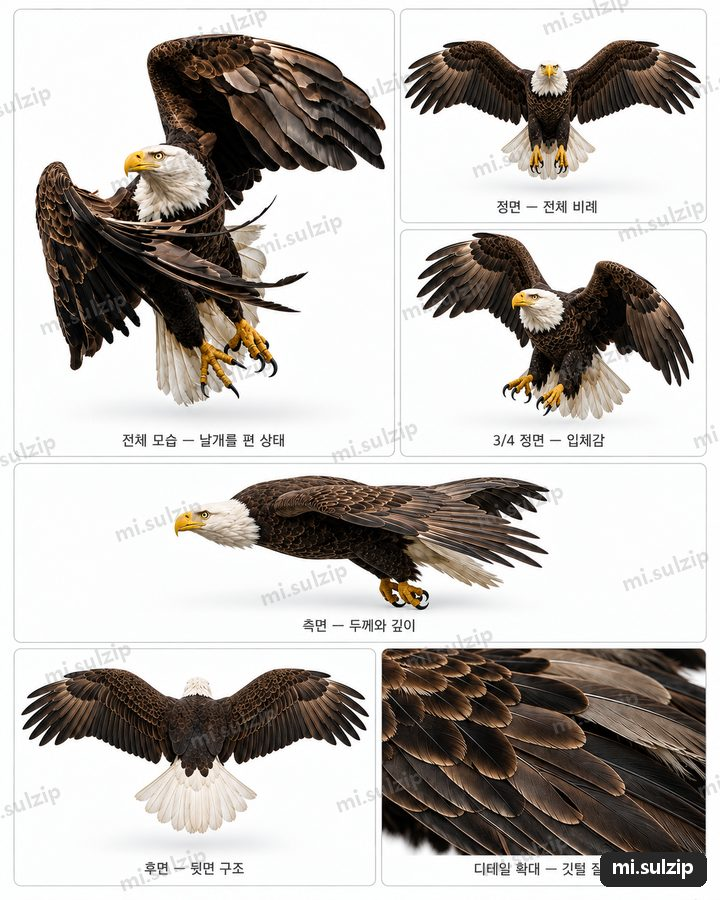
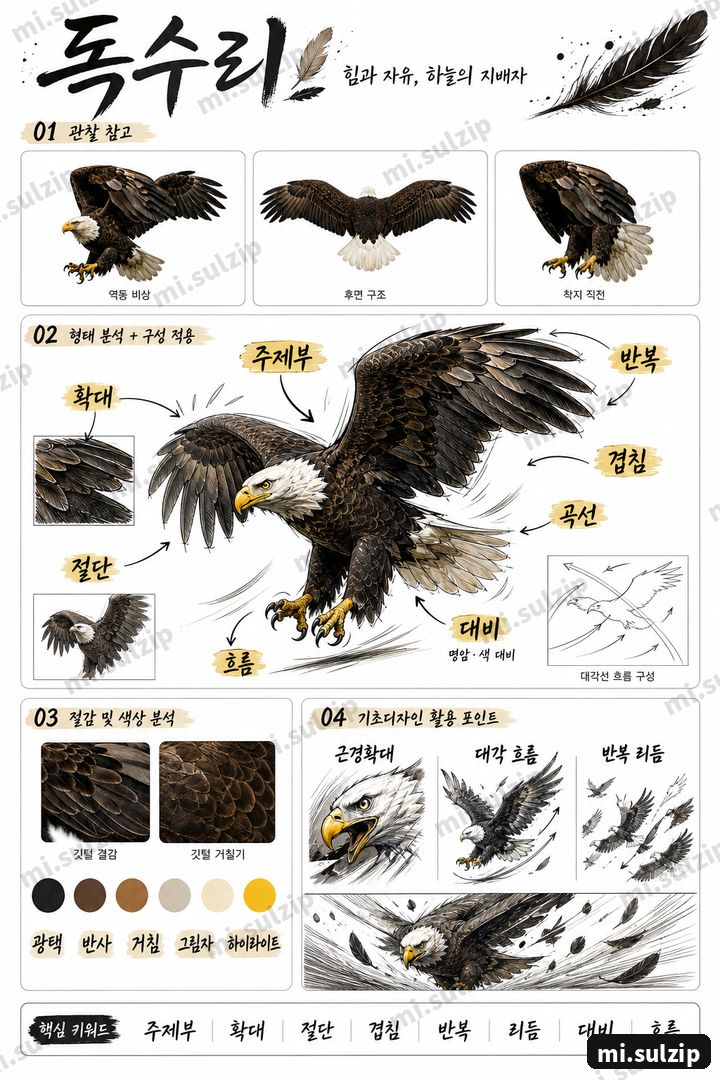
돼지·독수리·산양 분석보드 추가 (워터마크, 미리보기 첫 장)
Claude-Session: https://claude.ai/code/session_017wKCULFebdPRoDLWvjCuZn

diff --git a/index.html b/index.html
@@ -360,9 +360,9 @@ const ITEMS=[
  {"id": "mistsprayer", "title": "미스트 분무기 레퍼런스", "cat": "생활용품", "tier": "MINI", "price": 4900, "badge": "new", "order": 145, "pop": 145, "img": "img/mistsprayer/board.jpg", "thumb": "img/mistsprayer/thumb.jpg", "cuts": 6, "pv": ["img/mistsprayer/cut01.jpg", "img/mistsprayer/cut02.jpg", "img/mistsprayer/cut03.jpg", "img/mistsprayer/cut04.jpg", "img/mistsprayer/cut05.jpg", "img/mistsprayer/cut06.jpg", "img/mistsprayer/set1.jpg"], "desc": "투명한 유리와 금속의 대비", "contents": ["분석보드: 관찰 참고 · 형태 분석과 구성 · 질감과 색상 · 기초디자인 활용 포인트", "각도별 단독컷 6장 + 모음컷: 정면 · 측면 · 후면 · 상단 · 디테일", "핵심 키워드: 주제부 · 확대 · 절단 · 반복 · 리듬 · 대비 · 흐름"], "who": ["사물의 구조와 질감을 각도별로 익히고 싶은 입시생", "기초디자인 주제부 소재를 찾는 분"], "tags": ["생활용품", "분무기", "유리", "금속", "청록", "곡선"]},
  {"id": "octopus", "title": "문어 레퍼런스", "cat": "동물", "tier": "MINI", "price": 4900, "badge": "new", "order": 146, "pop": 146, "img": "img/octopus/board.jpg", "thumb": "img/octopus/thumb.jpg", "cuts": 5, "pv": ["img/octopus/cut01.jpg", "img/octopus/cut02.jpg", "img/octopus/cut03.jpg", "img/octopus/cut04.jpg", "img/octopus/cut05.jpg", "img/octopus/set1.jpg"], "desc": "유연한 움직임, 감각과 촉감의 조화", "contents": ["분석보드: 관찰 참고 · 형태 분석과 구성 · 질감과 색상 · 기초디자인 활용 포인트", "각도별 단독컷 5장 + 모음컷: 정면 · 측면 · 후면 · 상단 · 디테일", "핵심 키워드: 주제부 · 확대 · 절단 · 반복 · 리듬 · 대비 · 흐름"], "who": ["동물 형태와 동세를 각도별로 보고 싶은 분", "질감 표현 연습이 필요한 입시생"], "tags": ["동물", "문어", "빨판", "다리", "곡선", "빨강"]},
  {"id": "candleholder", "title": "흐름 캔들홀더 레퍼런스", "cat": "재질·표현", "tier": "MINI", "price": 4900, "badge": "new", "order": 147, "pop": 147, "img": "img/candleholder/board.jpg", "thumb": "img/candleholder/thumb.jpg", "cuts": 6, "pv": ["img/candleholder/cut01.jpg", "img/candleholder/cut02.jpg", "img/candleholder/cut03.jpg", "img/candleholder/cut04.jpg", "img/candleholder/cut05.jpg", "img/candleholder/cut06.jpg", "img/candleholder/set1.jpg"], "desc": "흘러내리는 금속의 흐름과 반사", "contents": ["분석보드: 관찰 참고 · 형태 분석과 구성 · 질감과 색상 · 기초디자인 활용 포인트", "각도별 단독컷 6장 + 모음컷: 정면 · 측면 · 후면 · 상단 · 디테일", "핵심 키워드: 주제부 · 확대 · 절단 · 반복 · 리듬 · 대비 · 흐름"], "who": ["금속·유리·투명 같은 재질 표현을 연습하고 싶은 입시생", "반사와 하이라이트 위치를 익히고 싶은 분"], "tags": ["재질·표현", "캔들", "크롬", "금속", "흐름", "녹아내림"]},
- {"id": "ram", "title": "산양 레퍼런스", "cat": "동물", "tier": "MINI", "price": 4900, "badge": "new", "order": 149, "pop": 149, "img": "img/ram/board.jpg", "thumb": "img/ram/thumb.jpg", "cuts": 6, "pv": ["img/ram/cut01.jpg", "img/ram/cut02.jpg", "img/ram/cut03.jpg", "img/ram/cut04.jpg", "img/ram/cut05.jpg", "img/ram/cut06.jpg", "img/ram/set1.jpg"], "desc": "말린 뿔의 나선, 털의 무게감", "contents": ["분석보드 준비 중 (모음컷 대표 이미지)", "각도별 단독컷 6장 + 모음컷: 메인 · 정면 · 측면 · 후면 · 상단 · 디테일", "핵심 키워드: 주제부 · 확대 · 절단 · 반복 · 리듬 · 대비 · 흐름"], "who": ["동물 형태와 동세를 각도별로 보고 싶은 분", "털·뿔 질감 표현을 연습하고 싶은 입시생"], "tags": ["동물", "산양", "뿔", "나선", "털", "질감"]},
- {"id": "eagle", "title": "독수리 레퍼런스", "cat": "동물", "tier": "MINI", "price": 4900, "badge": "new", "order": 150, "pop": 150, "img": "img/eagle/board.jpg", "thumb": "img/eagle/thumb.jpg", "cuts": 6, "pv": ["img/eagle/cut01.jpg", "img/eagle/cut02.jpg", "img/eagle/cut03.jpg", "img/eagle/cut04.jpg", "img/eagle/cut05.jpg", "img/eagle/cut06.jpg", "img/eagle/set1.jpg"], "desc": "펼친 날개의 리듬, 깃털과 발톱의 긴장감", "contents": ["분석보드 준비 중 (모음컷 대표 이미지)", "각도별 단독컷 6장 + 모음컷: 메인 · 정면 · 측면 · 후면 · 상단 · 디테일", "핵심 키워드: 주제부 · 확대 · 절단 · 반복 · 리듬 · 대비 · 흐름"], "who": ["동물 형태와 동세를 각도별로 보고 싶은 분", "날개·깃털의 반복 리듬을 연습하고 싶은 분"], "tags": ["동물", "독수리", "새", "날개", "깃털", "동세"]},
- {"id": "pig", "title": "돼지 레퍼런스", "cat": "동물", "tier": "MINI", "price": 4900, "badge": "new", "order": 151, "pop": 151, "img": "img/pig/board.jpg", "thumb": "img/pig/thumb.jpg", "cuts": 6, "pv": ["img/pig/cut01.jpg", "img/pig/cut02.jpg", "img/pig/cut03.jpg", "img/pig/cut04.jpg", "img/pig/cut05.jpg", "img/pig/cut06.jpg", "img/pig/set1.jpg"], "desc": "통통한 볼륨감, 살아 있는 동세", "contents": ["분석보드 준비 중 (모음컷 대표 이미지)", "각도별 단독컷 6장 + 모음컷: 메인 · 정면 · 측면 · 후면 · 상단 · 디테일", "핵심 키워드: 주제부 · 확대 · 절단 · 반복 · 리듬 · 대비 · 흐름"], "who": ["동물 형태와 동세를 각도별로 보고 싶은 분", "둥근 볼륨과 명암 연습이 필요한 입시생"], "tags": ["동물", "돼지", "볼륨", "분홍", "동세", "캐릭터"]},
+ {"id": "ram", "title": "산양 레퍼런스", "cat": "동물", "tier": "MINI", "price": 4900, "badge": "new", "order": 149, "pop": 149, "img": "img/ram/board.jpg", "thumb": "img/ram/thumb.jpg", "cuts": 6, "pv": ["img/ram/board.jpg", "img/ram/cut01.jpg", "img/ram/cut02.jpg", "img/ram/cut03.jpg", "img/ram/cut04.jpg", "img/ram/cut05.jpg", "img/ram/cut06.jpg", "img/ram/set1.jpg"], "desc": "말린 뿔의 나선, 털의 무게감", "contents": ["분석보드: 관찰 참고 · 형태 분석과 구성 · 질감과 색상 · 기초디자인 활용 포인트", "각도별 단독컷 6장 + 모음컷: 메인 · 정면 · 측면 · 후면 · 상단 · 디테일", "핵심 키워드: 주제부 · 확대 · 절단 · 반복 · 리듬 · 대비 · 흐름"], "who": ["동물 형태와 동세를 각도별로 보고 싶은 분", "털·뿔 질감 표현을 연습하고 싶은 입시생"], "tags": ["동물", "산양", "뿔", "나선", "털", "질감"]},
+ {"id": "eagle", "title": "독수리 레퍼런스", "cat": "동물", "tier": "MINI", "price": 4900, "badge": "new", "order": 150, "pop": 150, "img": "img/eagle/board.jpg", "thumb": "img/eagle/thumb.jpg", "cuts": 6, "pv": ["img/eagle/board.jpg", "img/eagle/cut01.jpg", "img/eagle/cut02.jpg", "img/eagle/cut03.jpg", "img/eagle/cut04.jpg", "img/eagle/cut05.jpg", "img/eagle/cut06.jpg", "img/eagle/set1.jpg"], "desc": "펼친 날개의 리듬, 깃털과 발톱의 긴장감", "contents": ["분석보드: 관찰 참고 · 형태 분석과 구성 · 질감과 색상 · 기초디자인 활용 포인트", "각도별 단독컷 6장 + 모음컷: 메인 · 정면 · 측면 · 후면 · 상단 · 디테일", "핵심 키워드: 주제부 · 확대 · 절단 · 반복 · 리듬 · 대비 · 흐름"], "who": ["동물 형태와 동세를 각도별로 보고 싶은 분", "날개·깃털의 반복 리듬을 연습하고 싶은 분"], "tags": ["동물", "독수리", "새", "날개", "깃털", "동세"]},
+ {"id": "pig", "title": "돼지 레퍼런스", "cat": "동물", "tier": "MINI", "price": 4900, "badge": "new", "order": 151, "pop": 151, "img": "img/pig/board.jpg", "thumb": "img/pig/thumb.jpg", "cuts": 6, "pv": ["img/pig/board.jpg", "img/pig/cut01.jpg", "img/pig/cut02.jpg", "img/pig/cut03.jpg", "img/pig/cut04.jpg", "img/pig/cut05.jpg", "img/pig/cut06.jpg", "img/pig/set1.jpg"], "desc": "통통한 볼륨감, 살아 있는 동세", "contents": ["분석보드: 관찰 참고 · 형태 분석과 구성 · 질감과 색상 · 기초디자인 활용 포인트", "각도별 단독컷 6장 + 모음컷: 메인 · 정면 · 측면 · 후면 · 상단 · 디테일", "핵심 키워드: 주제부 · 확대 · 절단 · 반복 · 리듬 · 대비 · 흐름"], "who": ["동물 형태와 동세를 각도별로 보고 싶은 분", "둥근 볼륨과 명암 연습이 필요한 입시생"], "tags": ["동물", "돼지", "볼륨", "분홍", "동세", "캐릭터"]},
  {"id": "faucet", "title": "수도꼭지 × 빨간 구슬 레퍼런스", "cat": "생활용품", "tier": "MINI", "price": 4900, "badge": "new", "order": 152, "pop": 152, "img": "img/faucet/board.jpg", "thumb": "img/faucet/thumb.jpg", "cuts": 6, "pv": ["img/faucet/cut01.jpg", "img/faucet/cut02.jpg", "img/faucet/cut03.jpg", "img/faucet/cut04.jpg", "img/faucet/cut05.jpg", "img/faucet/cut06.jpg", "img/faucet/set1.jpg"], "desc": "반짝이는 크롬과 빨간 구슬의 대비", "contents": ["분석보드: 관찰 참고 · 형태 분석과 구성 · 질감과 색상 · 기초디자인 활용 포인트", "각도별 단독컷 6장 + 모음컷: 메인 · 정면 · 측면 · 후면 · 상단 · 디테일", "핵심 키워드: 주제부 · 확대 · 절단 · 반복 · 리듬 · 대비 · 흐름"], "who": ["금속·크롬 반사 표현을 연습하고 싶은 분", "두 재질의 대비 구성이 필요한 입시생"], "tags": ["생활용품", "수도꼭지", "크롬", "금속", "반사", "구슬"]},
  {"id": "chromehand", "title": "크롬 손모형 레퍼런스", "cat": "인체", "tier": "MINI", "price": 4900, "badge": "new", "order": 148, "pop": 148, "img": "img/chromehand/board.jpg", "thumb": "img/chromehand/thumb.jpg", "cuts": 8, "pv": ["img/chromehand/cut01.jpg", "img/chromehand/cut02.jpg", "img/chromehand/cut03.jpg", "img/chromehand/cut04.jpg", "img/chromehand/cut05.jpg", "img/chromehand/cut06.jpg", "img/chromehand/cut07.jpg", "img/chromehand/cut08.jpg", "img/chromehand/set1.jpg"], "desc": "금속의 냉정한 광택, 이질적 감각의 구조", "contents": ["분석보드: 관찰 참고 · 형태 분석과 구성 · 질감과 색상 · 기초디자인 활용 포인트", "각도별 단독컷 8장 + 모음컷: 정면 · 측면 · 손바닥 · 받침 · 디테일", "핵심 키워드: 주제부 · 확대 · 절단 · 반복 · 리듬 · 대비 · 흐름"], "who": ["두상·손 같은 인체 형태를 각도별로 익히고 싶은 분"], "tags": ["인체", "손", "크롬", "금속", "반사", "손가락"]}
 ];
